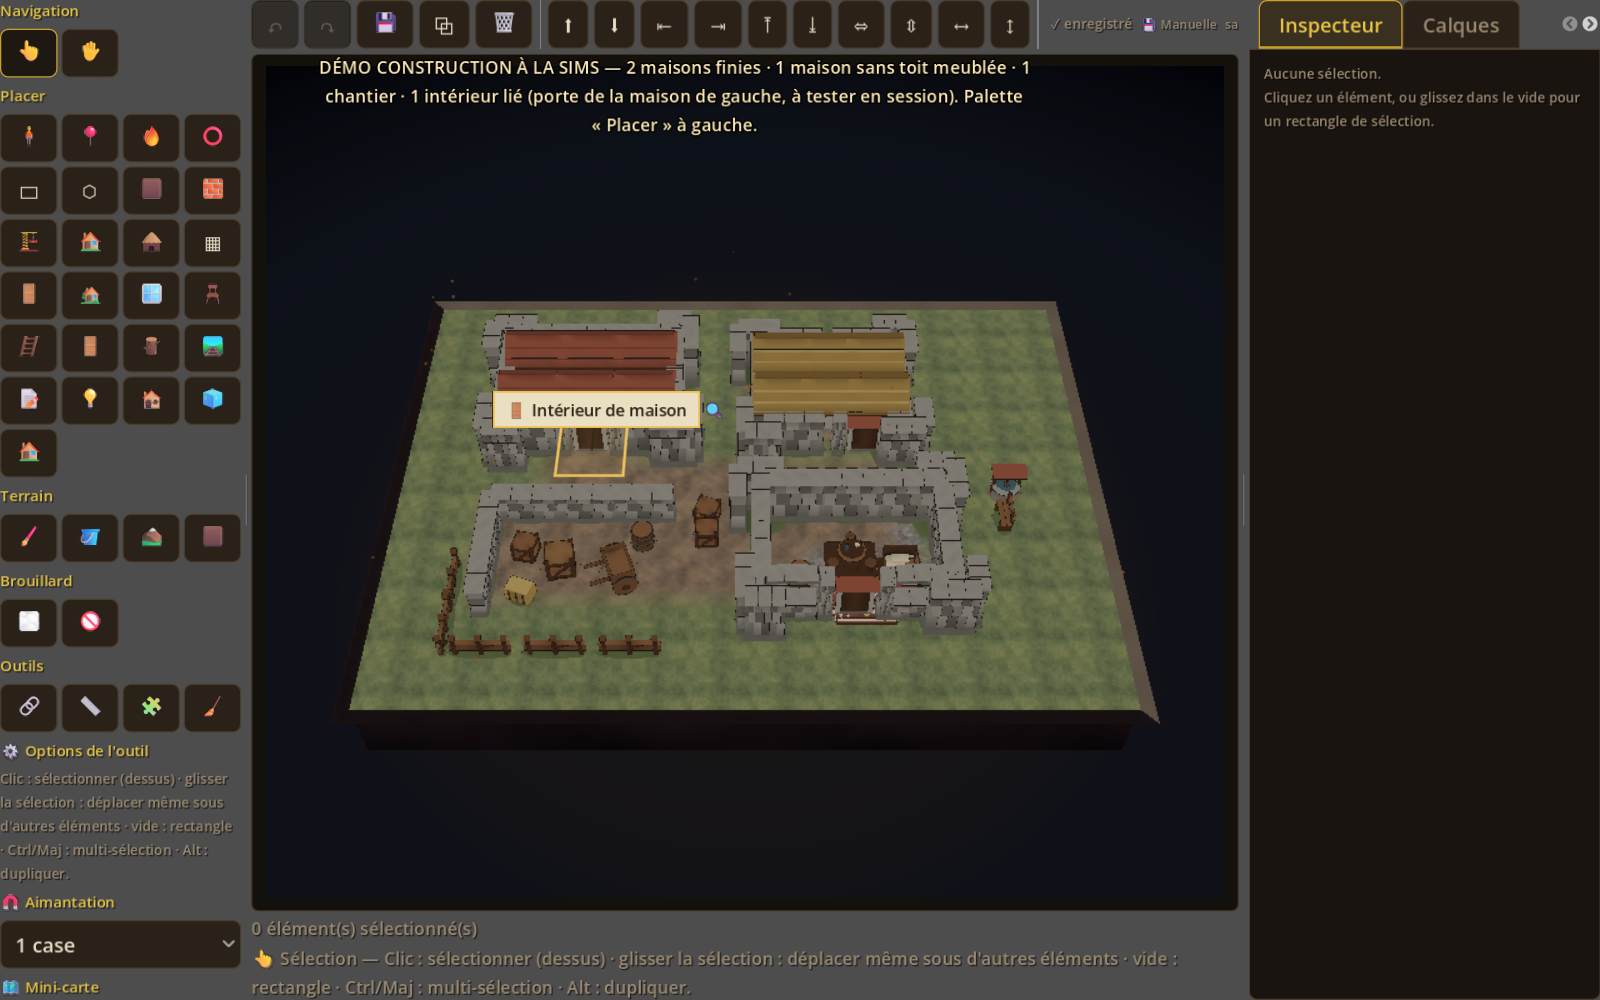
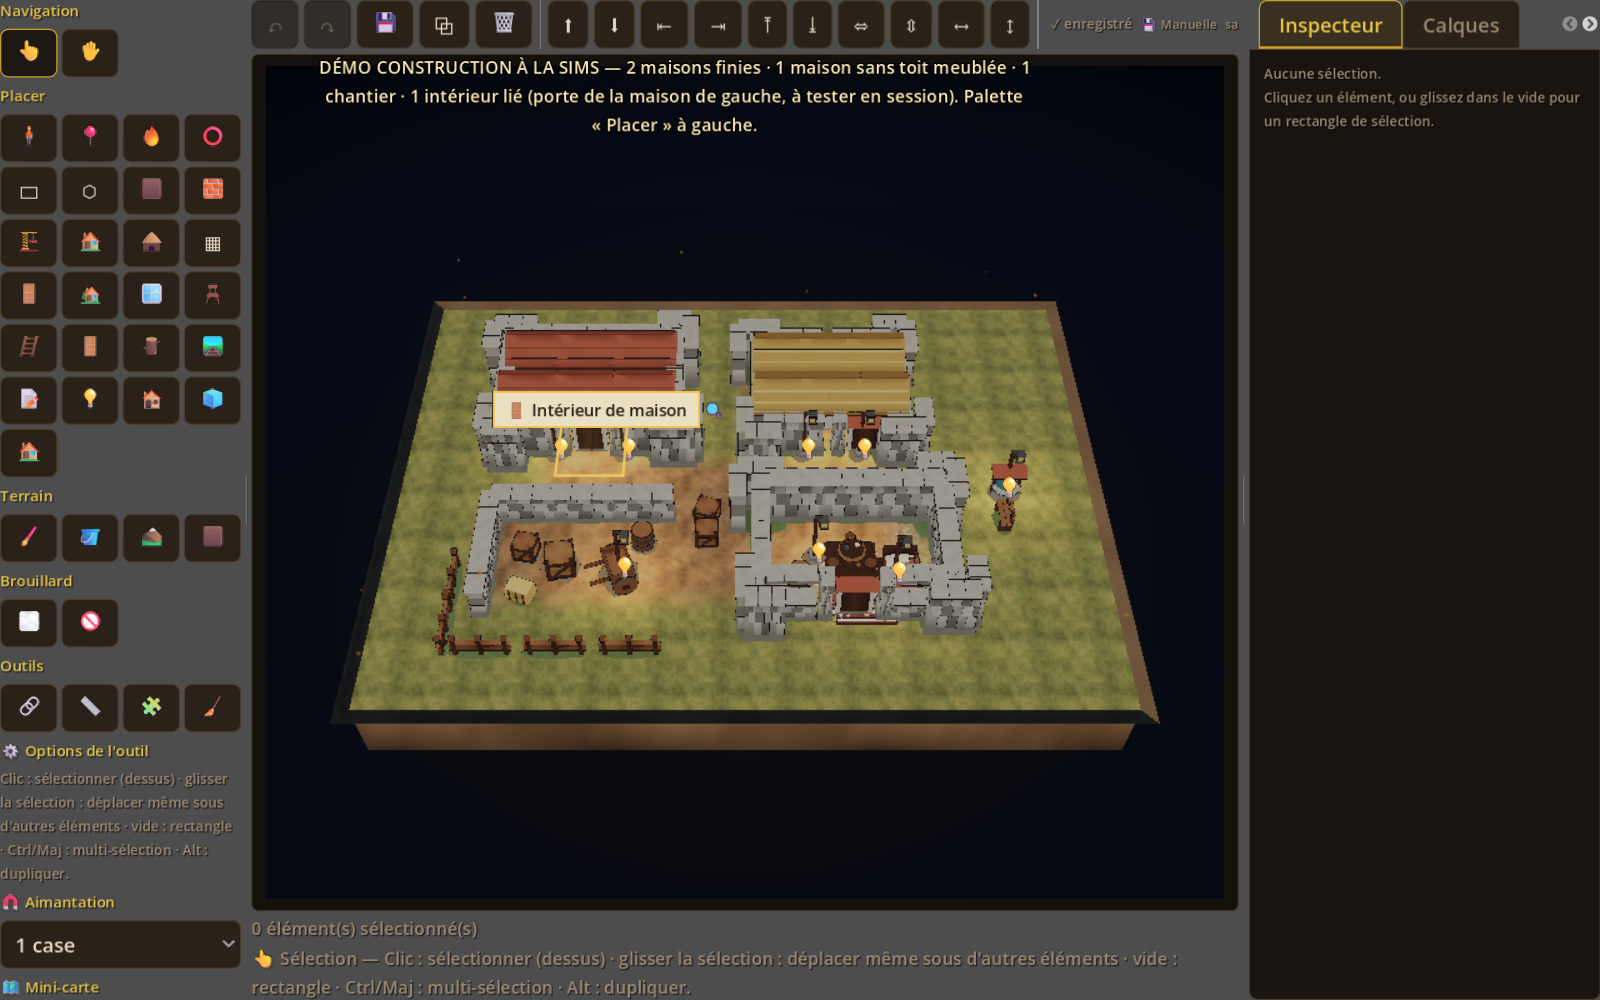
feat(rendu): gestion lumiere (presets, soleil colore, ACES, fog, lanternes)

Changed region(s): [[0.2188, 0.31, 0.7188, 0.775], [0.2188, 0.589, 0.25, 0.62]]

diff --git a/README.md b/README.md
@@ -23,7 +23,7 @@ Création de personnages, scénarios et cartes, puis session solo ou à plusieur
 - **Valbois** — cartes illustrées HD (`valbois_village.png`, `place_du_marche.png`), zoom lieu → Place du Marché, personnage **Kael** (voleur + portrait)
 - **HUD joueur immersif** — carte plein écran + overlay (`PlayerSessionHud`) ; vue MJ = panneau de session classique
 - **Éditeur battlemap 3D** — Hub → Cartes → carte complexe → Modifier
-- **Carte 2.5D & monde de zones (façon Dofus)** — terrain 3D simple (relief, 5 matières de sol dont neige/sable, eau, ambiances), 80 objets 3D (bâtiments, intérieurs, PNJ, toits/façades) avec import GLB, **onglet Monde multi-mondes** (zones de tailles différentes et thèmes habités, liens de bords, création/nommage/suppression/export d'un monde, Tester en session), figurines 3D de tokens, session avec **déplacement au clic (Pas/D)**, **mini-carte (C)** et carte du monde nommée (M). **Construction façon Sims** : murs 3D (hauteur), pièces + coins, dallage, toits, portes/fenêtres avec ouvertures réelles, maison rapide, escaliers, clôtures, chemins, mobilier — avec collisions RPG et **intérieurs liés de taille indépendante** (outil 🚪 Intérieur). Guide : [`docs/GUIDE_CARTE_25D.md`](docs/GUIDE_CARTE_25D.md).
+- **Carte 2.5D & monde de zones (façon Dofus)** — terrain 3D simple (relief, 5 matières de sol dont neige/sable, eau, ambiances), 80 objets 3D (bâtiments, intérieurs, PNJ, toits/façades) avec import GLB, **onglet Monde multi-mondes** (zones de tailles différentes et thèmes habités, liens de bords, création/nommage/suppression/export d'un monde, Tester en session), figurines 3D de tokens, session avec **déplacement au clic (Pas/D)**, **mini-carte (C)** et carte du monde nommée (M). **Construction façon Sims** : murs 3D (hauteur), pièces + coins, dallage, toits, portes/fenêtres avec ouvertures réelles, maison rapide, escaliers, clôtures, chemins, mobilier — avec collisions RPG et **intérieurs liés de taille indépendante** (outil 🚪 Intérieur). **Éclairage** : presets Jour/Matin/Coucher/Nuit/Donjon, soleil coloré + ombres, torches/lanternes vacillantes et fog de profondeur. Guide : [`docs/GUIDE_CARTE_25D.md`](docs/GUIDE_CARTE_25D.md).
 - **Scénarios non linéaires** — graphe de scènes, navigation MJ
 - **Serveur pooling** — salons + signalisation ; jeu P2P ENet en LAN (pas Internet)
 

diff --git a/docs/MAP_EDITOR.md b/docs/MAP_EDITOR.md
@@ -445,8 +445,12 @@ Onglet **Carte** :
 - **Perspective** : vue de dessus, isométrique, perspective inclinée (surtout
   utile en VTT ; le diorama force sa propre inclinaison).
 - **Atmosphère** : teinte d'ambiance, opacité, vignettage.
-- **Éclairage global** : lumière directionnelle, direction, intensité (coupé
-  en diorama ; les torches restent des lumières douces sans ombres).
+- **Ambiance lumineuse** : presets **Jour clair / Matin / Coucher de soleil /
+  Nuit claire / Donjon**. Chaque preset règle couleur et énergie du soleil,
+  couleur/énergie d'ambiance, exposition, brouillard de profondeur et glow.
+- **Éclairage global** : lumière directionnelle (Nord-Ouest, Nord-Est, Sud-Ouest,
+  Sud-Est), intensité ; les 💡 torches/lanternes ajoutent leurs sources chaudes
+  et vacillantes (ombres réelles sur terrain 3D, douces en diorama).
 - **Affichage éditeur** : afficher les liens, afficher les noms.
 - **Sauvegarde** : politique **Manuelle**, **À chaque modification** ou
   **Périodique (30 s)**.

diff --git a/docs/RAPPORT_CARTE_25D_LIVRAISON.md b/docs/RAPPORT_CARTE_25D_LIVRAISON.md
@@ -26,6 +26,7 @@
 | Édition objet | dimensions X/Y/Z, rotation (R, poignées), élévation, **échelle uniforme** |
 | Construction | **Mur 3D** (hauteur réglable), **Pièce 3D**, **Dallage** (matière + nivellement), **Toit 3D** (styles), **Porte 3D** et **Fenêtre 3D** avec ouvertures réelles, **Maison rapide**, **intérieurs liés** (lieu + carte enfant 12 × 9 indépendante via l'outil 🚪 Intérieur) |
 | Intérieur / extérieur | **Meubler** (4 ensembles), **Clôture** (3 styles), **Chemin** peint au sol |
+| Éclairage | presets **Jour / Matin / Coucher / Nuit / Donjon**, soleil coloré, ambiance colorée, exposition **ACES**, fog de profondeur, torches/lanternes vacillantes + ombres |
 | Rendu | **SSAO**, **glow**, étalonnage, **ombres directionnelles** sur terrain 3D |
 | Aide | bouton **?** (parcours, astuces, raccourcis), mini-carte |
 | Test | bouton **▶ Tester** : enregistre et lance la session (monde entier si lié) |

diff --git a/docs/GUIDE_CARTE_25D.md b/docs/GUIDE_CARTE_25D.md
@@ -103,6 +103,9 @@ Outils terrain :
   (salle commune, chambre, comptoir, campement) aligné au sol.
 - **Outil 🪵 Clôture** : glisse le long d'une limite ; pose une clôture
   modulaire (**barrière / clôture basse / palissade**) alignée au terrain.
+- **Outil 💡 Lumière** : pose une torche/lampe ; sur terrain 3D elle éclaire avec
+  ombres douces, vacille et se combine aux presets d'ambiance (Jour / Matin /
+  Coucher / Nuit / Donjon) dans **Carte → Ambiance lumineuse**.
 - **Outil 🛤 Chemin** : glisse un tracé ; peint un chemin au sol (matière au
   choix, largeur réglable) pour relier bâtiments et zones.
   La démo du village montre une porte à auvent et une fenêtre à volets posées
